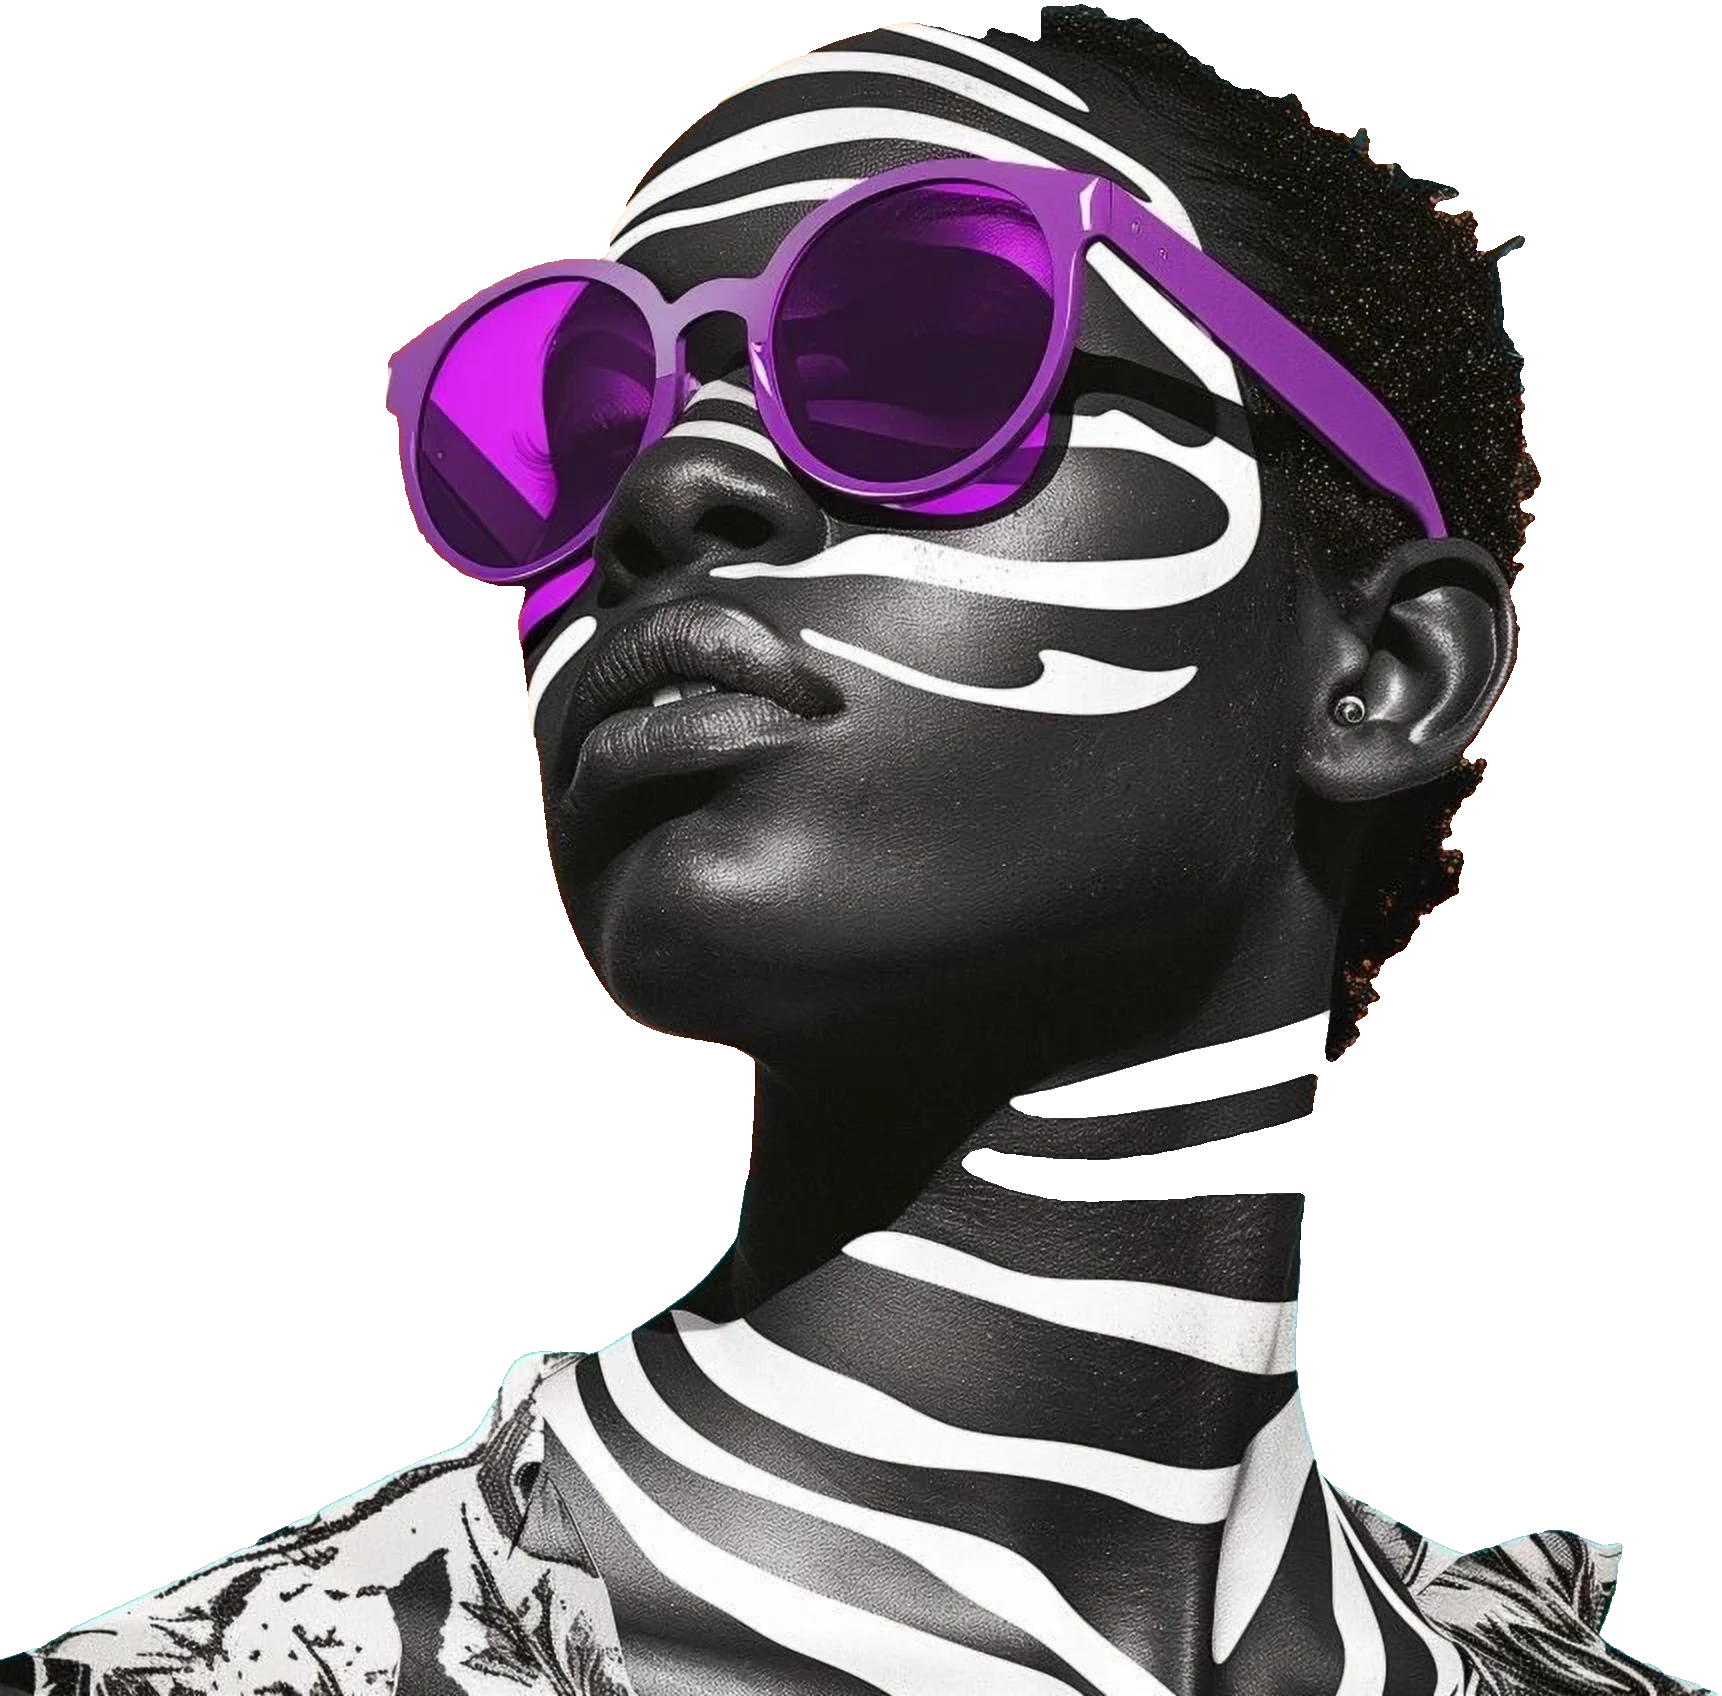
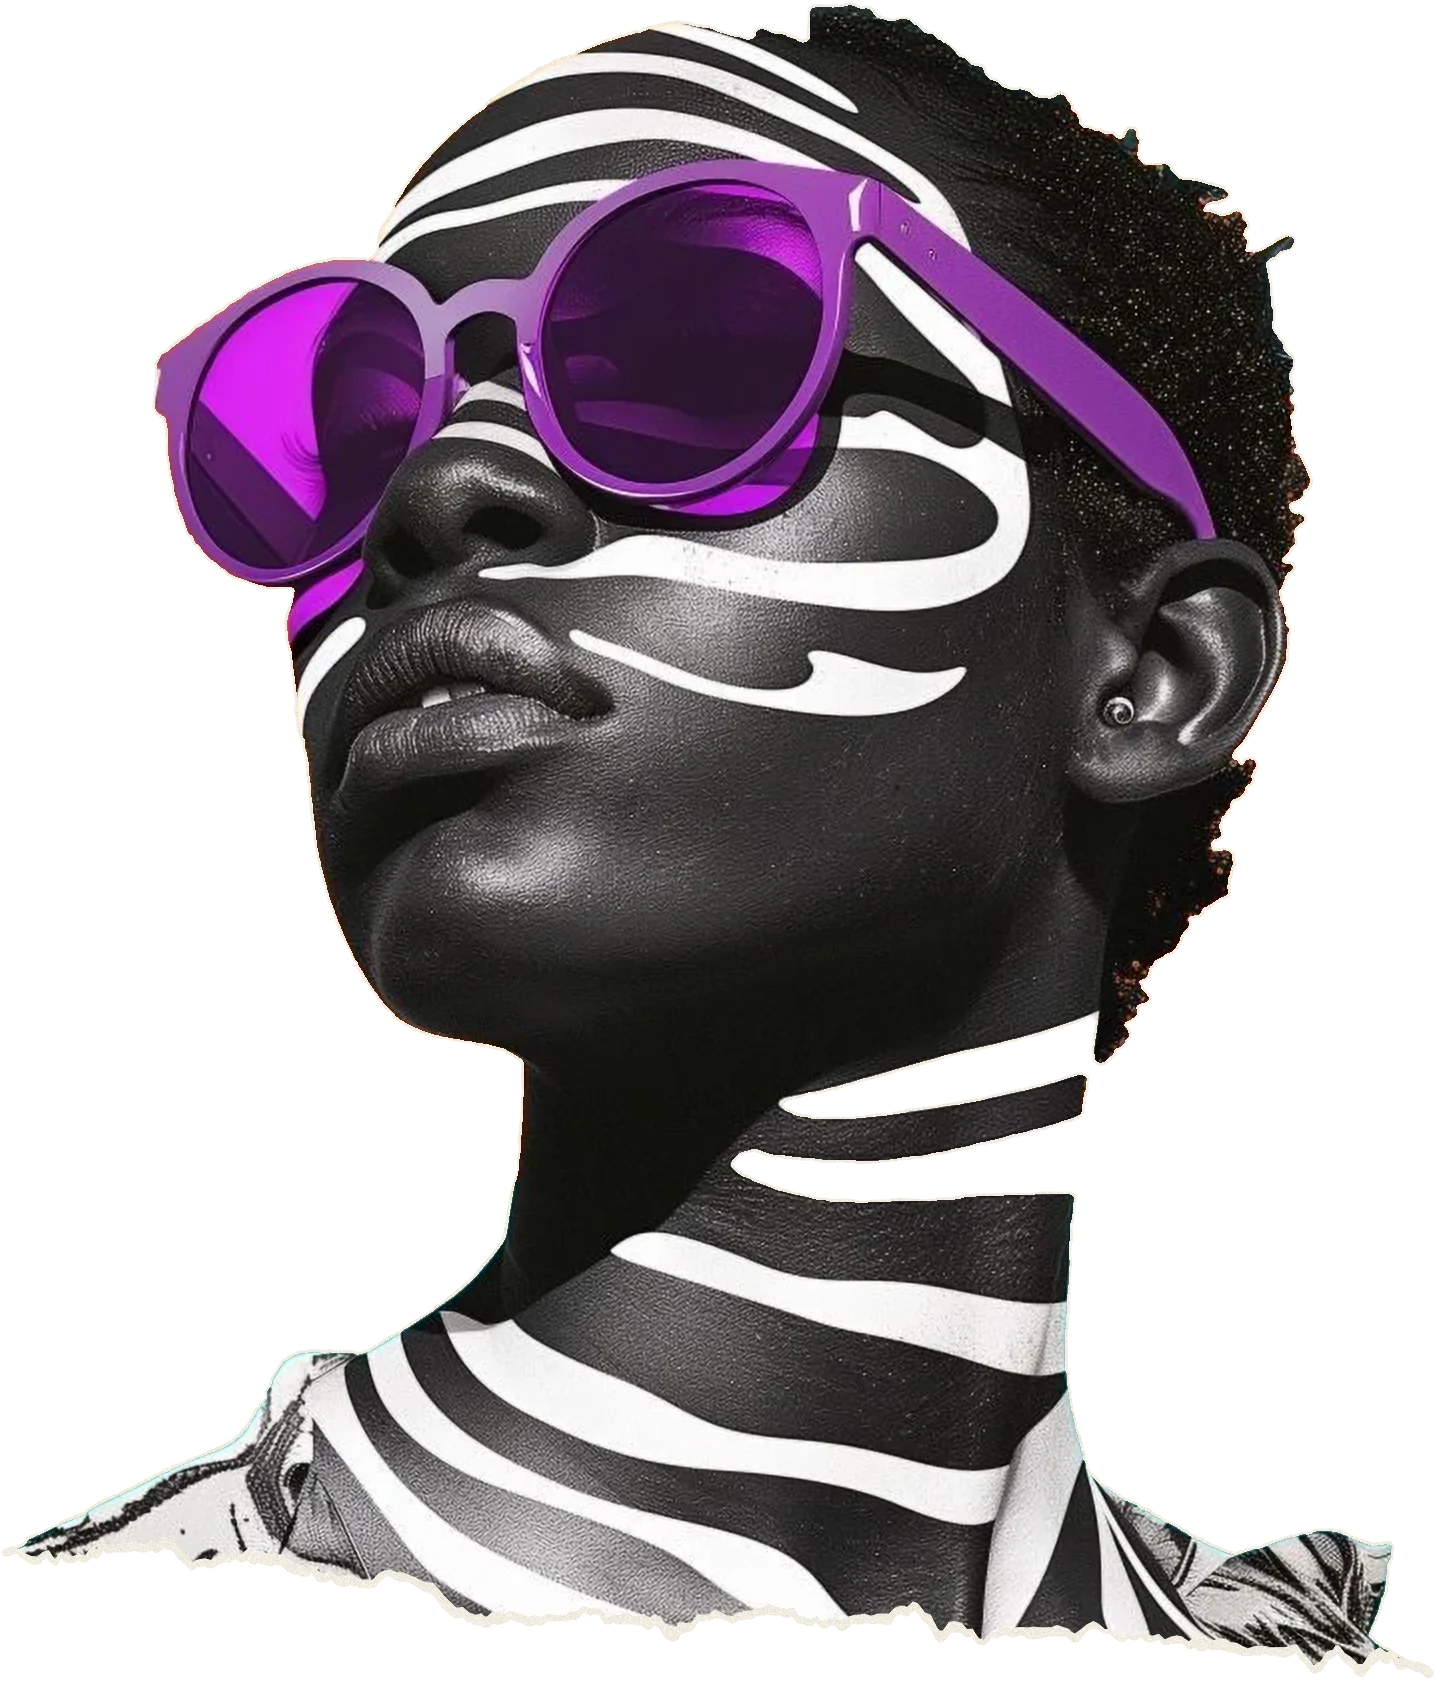
Jury round 4: honest counter, whole-word hover, readable layers
- Loader counter only counts up: every digit flips together, the last
  cards are 099 then 100, held a beat before the wipe.
- Hovering a tile of a hidden word brings up the whole word; hover
  chains stop at words, so the hero never shows letter fragments.
- The 'Move to flip' hint shows for a moment when the pointer lands on a
  board, then stays out of the way of the words.
- Layers copy at full contrast on the light teal ground; the layers
  portrait gets a torn bottom and paper rim like the other cut-outs.
- Process shows a gold 'Now · week · step' readout under the weeks board.
- Hovering a project dims the other titles but keeps their captions
  readable; dark mode tones every artwork down evenly instead of
  swapping some paper tiles for cards.

Claude-Session: https://claude.ai/code/session_01TiKiSGUKwTgzg3S1XNaC9L

diff --git a/index.js b/index.js
@@ -28,7 +28,7 @@
         art1: { w: 1472, h: 1472, figure: [300, 109, 979, 1101] },
         art2: { w: 1472, h: 1472, figure: [375, 250, 631, 839] },
         art3: { w: 1472, h: 1472, figure: [177, 238, 735, 1116] },
-        art4: { w: 1920, h: 2400, figure: [0, 704, 1722, 1696], sun: [144, 254, 1631, 1631], leaves: [849, 72, 1071, 1031] }
+        art4: { w: 1920, h: 2400, figure: [231, 703, 1436, 1681], sun: [144, 254, 1631, 1631], leaves: [849, 72, 1071, 1031] }
     };
 
     /* ---------- palette ---------- */
@@ -121,9 +121,17 @@
         c.width = img.naturalWidth; c.height = img.naturalHeight;
         var x = c.getContext('2d');
         x.drawImage(img, 0, 0);
-        if (!fig) return c;
-        var k = c.width / ART[key].w;
-        x.drawImage(halftone(fig), box[0] * k, box[1] * k, box[2] * k, box[3] * k);
+        if (fig) {
+            var k = c.width / ART[key].w;
+            x.drawImage(halftone(fig), box[0] * k, box[1] * k, box[2] * k, box[3] * k);
+        }
+        // in dark mode the paper of the artworks would glow: tone it down evenly
+        if (currentTheme() === 'dark') {
+            x.globalCompositeOperation = 'multiply';
+            x.fillStyle = 'rgb(205,199,188)';
+            x.fillRect(0, 0, c.width, c.height);
+            x.globalCompositeOperation = 'source-over';
+        }
         return c;
     }
 
@@ -223,6 +231,17 @@
         } catch (e) { map = null; }
         fig._cov = { key: key, map: map };
         return map;
+    }
+
+    /* The tiles of the hidden word a tile belongs to, in reading order. */
+    function wordAt(board, words, t) {
+        for (var i = 0; i < words.length; i++) {
+            var w = words[i];
+            for (var j = 0; j < w.length; j++) {
+                if (w[j][0] === t.r && w[j][1] === t.c) return w.map(function (q) { return board.at(q[0], q[1]); }).filter(Boolean);
+            }
+        }
+        return null;
     }
 
     /* Idle reveal of one whole hidden word, left to right: words of three
@@ -452,6 +471,7 @@
 
         var board = new FlapBoard(canvas, {
             cols: 8, aspect: 1.28, gap: 3, radius: 2, split: 1, duration: 620,
+            group: function (t) { return state === 'img' ? wordAt(board, words, t) : null; },
             face: function (t) { return reduce ? F.img('art1') : filler(t, 7); },
             // what a flipped tile shows: the message under the image, the image under the message
             alt: function (t) { return state === 'msg' ? F.img('art1') : messageFace(t); }
@@ -547,6 +567,7 @@
 
         var board = new FlapBoard(canvas, {
             cols: 22, aspect: 1.3, gap: 3, radius: 2, split: 1, duration: 600,
+            group: function (t) { return stageIdx <= 0 || stageIdx === 3 ? wordAt(board, words, t) : null; },
             face: function () { return F.img('art3'); },
             alt: function (t) { return t.home && t.home.k === 'img' ? (faceFor(1, t)) : F.img('art3'); }
         });
@@ -924,46 +945,12 @@
             cols: 24, rows: 2, gap: 3, radius: 2, split: 1, duration: 520, glyph: 0.64,
             face: function () { return card(' '); }
         });
-        var blank = {};
-        // in dark mode, tiles that would only show the artwork's bare paper
-        // glow; those become cards instead
-        function homeFace(t) { return blank[t.i] && currentTheme() === 'dark' ? filler(t, 4, true) : F.img('art2'); }
         var sboard = new FlapBoard(scanvas, {
             cols: 4, aspect: 1.3, gap: 3, radius: 2, split: 1, duration: 600,
-            face: homeFace,
+            face: function () { return F.img('art2'); },
             alt: function (t) { return t.home && t.home.k === 'img' ? filler(t, 4) : F.img('art2'); }
         });
         sboard.on('layout', function () { register(fig, sboard, 'art2', box); });
-        function paleTiles() {
-            var out = {};
-            try {
-                var src = sboard.sources.art2;
-                if (!src || !src.map) return out;
-                var k = 0.25, W = Math.max(1, Math.round(sboard.dw * k)), H = Math.max(1, Math.round(sboard.dh * k));
-                var c = doc.createElement('canvas'); c.width = W; c.height = H;
-                var x = c.getContext('2d'), m = src.map, im = src.img;
-                x.drawImage(im, m.ox * k, m.oy * k, (im.naturalWidth || im.width) * m.sc * k, (im.naturalHeight || im.height) * m.sc * k);
-                var d = x.getImageData(0, 0, W, H).data;
-                sboard.tiles.forEach(function (t) {
-                    var x0 = Math.floor(t.x * k), y0 = Math.floor(t.y * k), x1 = Math.ceil((t.x + t.w) * k), y1 = Math.ceil((t.y + t.h) * k);
-                    var n = 0, pale = 0;
-                    for (var yy = y0; yy < y1 && yy < H; yy++) {
-                        for (var xx = x0; xx < x1 && xx < W; xx++) {
-                            var o = (yy * W + xx) * 4, hi = Math.max(d[o], d[o + 1], d[o + 2]), lo = Math.min(d[o], d[o + 1], d[o + 2]);
-                            n++; if (hi > 165 && hi - lo < 42) pale++;
-                        }
-                    }
-                    if (n && pale / n > 0.75) out[t.i] = true;
-                });
-            } catch (e) { }
-            return out;
-        }
-        function retheme() {
-            if (!sboard.dw) return;
-            blank = paleTiles();
-            sboard.setAll(homeFace);
-        }
-
         function cols() { return clamp(Math.round(canvas.clientWidth / (vw < 700 ? 30 : 52)), 11, 30); }
         function show() {
             var m = MESSAGES[i % MESSAGES.length];
@@ -994,7 +981,6 @@
             shadowFor(fig, figImg);
             sboard.setSource('art2', plate(img, figImg, box, 'art2'), { fx: 0.5, fy: 0.45 });
             sboard.resize();
-            retheme();
             stage.classList.add('is-ready');
             var lift = 0, target = 0;
             stage.addEventListener('pointerenter', function () { target = 1; });
@@ -1011,7 +997,7 @@
                 if (es[0].isIntersecting) { show(); if (!reduce) timer = setInterval(show, 5200); }
             }, { threshold: 0.2 }).observe(canvas);
         }
-        return { init: init, board: board, sboard: sboard, retheme: retheme, resize: function () { board.o.cols = cols(); board.o.rows = board.o.cols >= 20 ? 2 : 5; } };
+        return { init: init, board: board, sboard: sboard, resize: function () { board.o.cols = cols(); board.o.rows = board.o.cols >= 20 ? 2 : 5; } };
     })();
 
     /* ======================================================================
@@ -1107,8 +1093,16 @@
             }
             return card(' ');
         }
+        var nowEl = $('[data-now]'), now = nowEl ? new FlapText(nowEl, { duration: 380, stagger: 22 }) : null;
+        function readout() {
+            if (!now) return;
+            var txt = 'NOW · WEEK ' + pad(active + 1, 2) + ' · ' + STEPS[active];
+            while (txt.length < now.cells.length) txt += ' ';
+            now.set(txt.slice(0, now.cells.length), { cycle: 0, stagger: 16 });
+        }
         function render(instant) {
             board.wave(function (t) { return faceAt(t); }, { origin: [active, 14], speed: instant ? 0 : 40, cycle: instant || reduce ? 0 : 2 });
+            readout();
         }
         canvas.addEventListener('click', function (e) {
             var r = canvas.getBoundingClientRect();
@@ -1268,13 +1262,17 @@
     if (fine) {
         var cur = $('.cursor'), curLabel = $('.cursor__label');
         var cp = { x: -100, y: -100, tx: -100, ty: -100 }, lastScroll = -1;
+        var hintBoard = null, hintUntil = 0;
         function cursorState(t) {
             if (!t) return;
             var onBoard = t.tagName === 'CANVAS' && t.closest('.stage, .wall__stage');
             var onLink = !onBoard && t.closest('a, button');
             cur.classList.toggle('is-board', !!onBoard);
             cur.classList.toggle('is-link', !!onLink);
-            cur.classList.toggle('has-label', !!onBoard);
+            // the hint shows for a moment on arrival, then gets out of the way of the words
+            if (onBoard && onBoard !== hintBoard) { hintBoard = onBoard; hintUntil = performance.now() + 1400; }
+            if (!onBoard) hintBoard = null;
+            cur.classList.toggle('has-label', !!onBoard && performance.now() < hintUntil);
             if (onBoard) curLabel.textContent = 'Move to flip';
         }
         win.addEventListener('pointermove', function (e) { cp.tx = e.clientX; cp.ty = e.clientY; cursorState(e.target); }, { passive: true });
@@ -1283,6 +1281,7 @@
             cp.x = lerp(cp.x, cp.tx, 0.24); cp.y = lerp(cp.y, cp.ty, 0.24);
             cur.style.transform = 'translate3d(' + cp.x.toFixed(1) + 'px,' + cp.y.toFixed(1) + 'px,0)';
             if (scrollY !== lastScroll && cp.tx > 0) { lastScroll = scrollY; cursorState(doc.elementFromPoint(cp.tx, cp.ty)); }
+            if (hintBoard && performance.now() > hintUntil && cur.classList.contains('has-label')) cur.classList.remove('has-label');
         });
     }
 
@@ -1437,7 +1436,7 @@
     function rebuildPlates() {
         if (loaded.art1) { hero.board.setSource('art1', plate(loaded.art1[0], loaded.art1[1], ART.art1.figure, 'art1'), { fx: 0.5, fy: 0.42 }); }
         if (loaded.art3) { wall.board.setSource('art3', plate(loaded.art3[3] || loaded.art3[0], loaded.art3[1], ART.art3.figure, 'art3'), { fx: 0.12, fy: 0.16 }); }
-        if (loaded.art2) { contact.sboard.setSource('art2', plate(loaded.art2[0], loaded.art2[1], ART.art2.figure, 'art2'), { fx: 0.5, fy: 0.45 }); contact.retheme(); }
+        if (loaded.art2) { contact.sboard.setSource('art2', plate(loaded.art2[0], loaded.art2[1], ART.art2.figure, 'art2'), { fx: 0.5, fy: 0.45 }); }
         boards.forEach(function (b) { b.cache.clear(); b.draw(); });
     }
 
@@ -1458,7 +1457,7 @@
        ====================================================================== */
     var loader = $('.loader');
     var countEl = $('[data-count]');
-    var counter = new FlapText(countEl, { duration: 190, stagger: 0, glyphs: '0123456789' });
+    var counter = new FlapText(countEl, { duration: 90, stagger: 0, glyphs: '0123456789' });
     var lb = new FlapBoard($('.loader__board'), {
         cols: clamp(Math.round(doc.documentElement.clientWidth / 92), 6, 18), aspect: 1.3, gap: 2, radius: 2, split: 1, duration: 560,
         face: function (t) { return (t.r + t.c) % 9 === 0 ? weave(['warp', 'weft', 'lozenge'][(t.r + t.c) % 3], t.r % 2 === 1) : F.fill(C.card); }
@@ -1485,7 +1484,8 @@
         var timeP = MIN ? clamp((performance.now() - t0) / MIN, 0, 1) : 1;
         // count from the first frame; the last stretch waits for the hero's art
         var target = Math.floor(Math.min(timeP, 0.6 + 0.4 * real) * 100);
-        if (target > shown) { shown = Math.min(100, shown + Math.max(1, Math.round((target - shown) * 0.5))); counter.set(pad(shown, 3), { stagger: 40, order: 'rtl' }); }
+        target = Math.min(target, 99);                 // 100 is set once, from 099
+        if (target > shown) { shown = Math.min(100, shown + Math.max(1, Math.round((target - shown) * 0.5))); counter.set(pad(shown, 3), { stagger: 0 }); }
         if (shown >= 100) clearInterval(countTimer);
     }, 110);
 
@@ -1507,8 +1507,11 @@
         var wait = Math.max(0, MIN + (MIN ? 150 : 0) - (performance.now() - t0));
         setTimeout(function () {
             clearInterval(countTimer);
-            if (!seen) counter.set('100', { stagger: 60, order: 'rtl' });
-            setTimeout(reveal, reduce || seen ? 0 : 260);
+            if (reduce || seen) { reveal(); return; }
+            // the last two cards: 099, then 100, held a beat before the wipe
+            var last = shown < 99 ? ['099', '100'] : ['100'];
+            last.forEach(function (v, k) { setTimeout(function () { counter.set(v, { stagger: 0 }); }, k * 130); });
+            setTimeout(reveal, (last.length - 1) * 130 + 380);
         }, wait);
     });
 

diff --git a/main.css b/main.css
@@ -28,6 +28,7 @@
     --oxblood: #7A1E17;
     --gold: #EAA828;
     --ochre: #C58B3E;
+    --gold-ink: #7A4F0F;
     --orange: #EC6B24;
     --teal: #61B9BE;
     --teal-ink: #0F2A2C;
@@ -60,6 +61,7 @@
         --card-ink: #EDE6D7;
         --housing: #060605;
         --grain: url("assets/img/grain-dark.webp");
+        --gold-ink: #EAA828;
         --shadow: rgba(0, 0, 0, .6);
         color-scheme: dark;
     }
@@ -76,6 +78,7 @@
     --card-ink: #EDE6D7;
     --housing: #060605;
     --grain: url("assets/img/grain-dark.webp");
+    --gold-ink: #EAA828;
     --shadow: rgba(0, 0, 0, .6);
     color-scheme: dark;
 }
@@ -415,7 +418,9 @@ body.menu-open .nav { color: #EFE9DC; background: transparent; box-shadow: none;
     border-bottom: 1px solid var(--line);
     transition: opacity .5s var(--ease-out);
 }
-.work__list.is-hovering .work__item:not(.is-hover) { opacity: .55; }
+.work__list.is-hovering .work__item:not(.is-hover) .work__name,
+.work__list.is-hovering .work__item:not(.is-hover) .work__year { opacity: .45; }
+.work__name, .work__year { transition: opacity .5s var(--ease-out), transform .7s var(--ease-out); }
 .work__name { font: 400 clamp(40px, 5.4vw, 92px)/.98 var(--font-display); letter-spacing: -.045em; transition: transform .7s var(--ease-out); }
 .work__item.is-hover .work__name { transform: translateX(1.2vw); }
 .work__name .fx { --f: .58; }
@@ -467,9 +472,9 @@ body.menu-open .nav { color: #EFE9DC; background: transparent; box-shadow: none;
     column-gap: var(--gutter);
 }
 .layers__copy { align-self: center; max-width: 30rem; position: relative; z-index: 2; }
-.layers__copy .mono { margin-bottom: 18px; opacity: .75; }
+.layers__copy .mono { margin-bottom: 18px; }
 .layers__title { font: 400 clamp(34px, 3.9vw, 66px)/1 var(--font-display); letter-spacing: -.04em; margin-bottom: 22px; }
-.layers__lede { font-size: 16px; max-width: 26em; opacity: .85; }
+.layers__lede { font-size: 16px; max-width: 26em; }
 .layers__scene { position: relative; grid-row: 1 / 3; grid-column: 2; display: grid; place-items: center; perspective: 1700px; perspective-origin: 60% 45%; }
 .layers__rig {
     position: relative;
@@ -528,6 +533,7 @@ body.menu-open .nav { color: #EFE9DC; background: transparent; box-shadow: none;
 .weeks { margin-top: 6vh; display: flex; align-items: flex-end; gap: 18px; }
 .weeks__board { width: clamp(118px, 10vw, 156px); aspect-ratio: 2 / 1.5; background: var(--housing); box-shadow: 0 0 0 3px var(--housing); border-radius: 2px; }
 .weeks__label { color: var(--ink-2); padding-bottom: 4px; line-height: 1.5; }
+.weeks__now { margin-top: 18px; color: var(--gold-ink); white-space: pre; }
 .timetable { width: 100%; margin-bottom: 3vh; }
 .timetable canvas { cursor: pointer; }
 .timetable__head { display: grid; grid-template-columns: 3fr 11fr 5fr; color: var(--ink-3); margin-bottom: 8px; }

diff --git a/js/flapboard.js b/js/flapboard.js
@@ -348,12 +348,19 @@
     var step = opt.step || 70;
     var prev = this.lastHover;
     this.lastHover = t;
+    // a tile that belongs to a hidden word brings the whole word up
+    var group = this.o.group ? this.o.group(t) : null;
+    if (group && group.length) {
+      for (var g = 0; g < group.length; g++) this.poke(group[g], g * 55, hold + 400);
+      return;
+    }
     this.poke(t, 0, hold);
     if (prev) {
       var dr = Math.sign(t.r - prev.r), dc = Math.sign(t.c - prev.c);
       for (var k = 1; k <= chain; k++) {
         var n = this.at(t.r + dr * k, t.c + dc * k);
-        if (n) this.poke(n, k * step, hold - k * 120);
+        if (!n || (this.o.group && this.o.group(n))) break;     // never half a word
+        this.poke(n, k * step, hold - k * 120);
       }
     }
   };

diff --git a/index.html b/index.html
@@ -265,6 +265,7 @@
                     <canvas class="weeks__board" aria-hidden="true"></canvas>
                     <p class="weeks__label mono"><span class="sr-only">4 </span>weeks from kick-off<br>to launch</p>
                 </div>
+                <p class="weeks__now mono" aria-hidden="true" data-now>NOW · WEEK 01 · WIREFRAMES</p>
             </div>
             <div class="process__steps">
                 <div class="timetable" aria-hidden="true">
